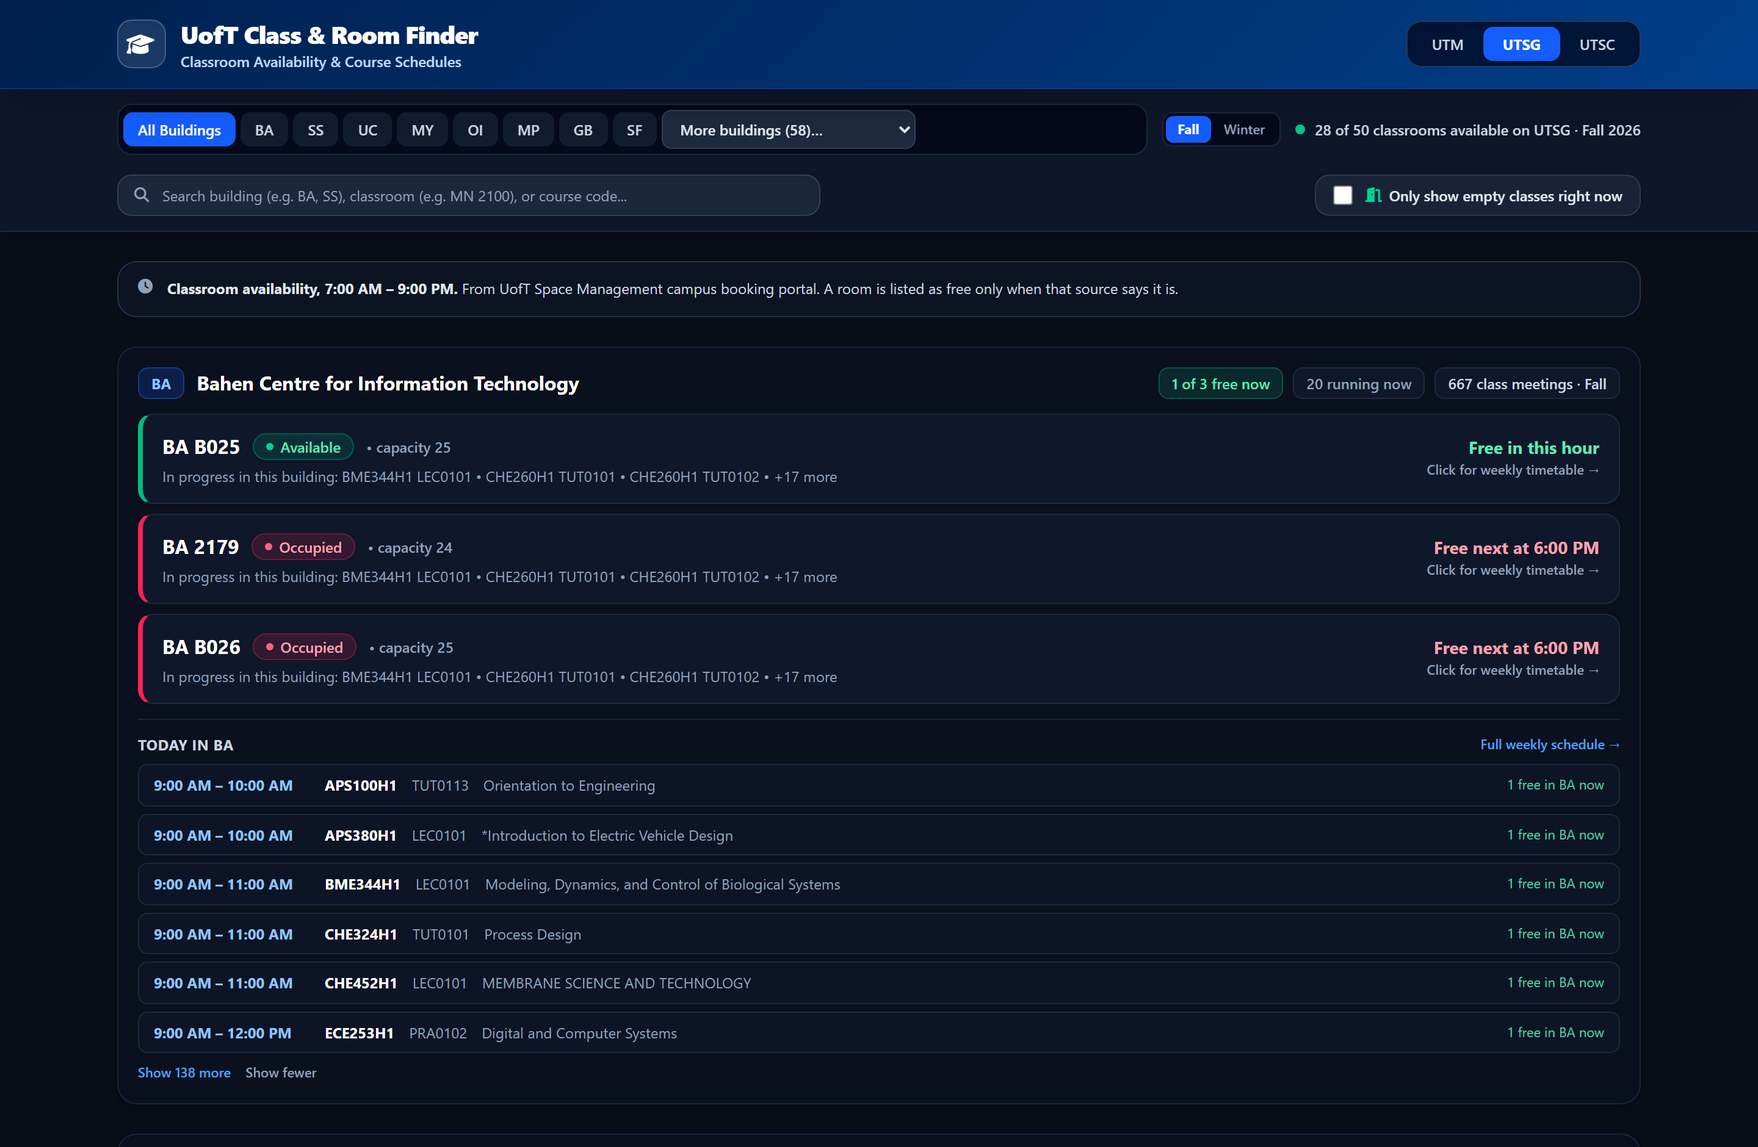
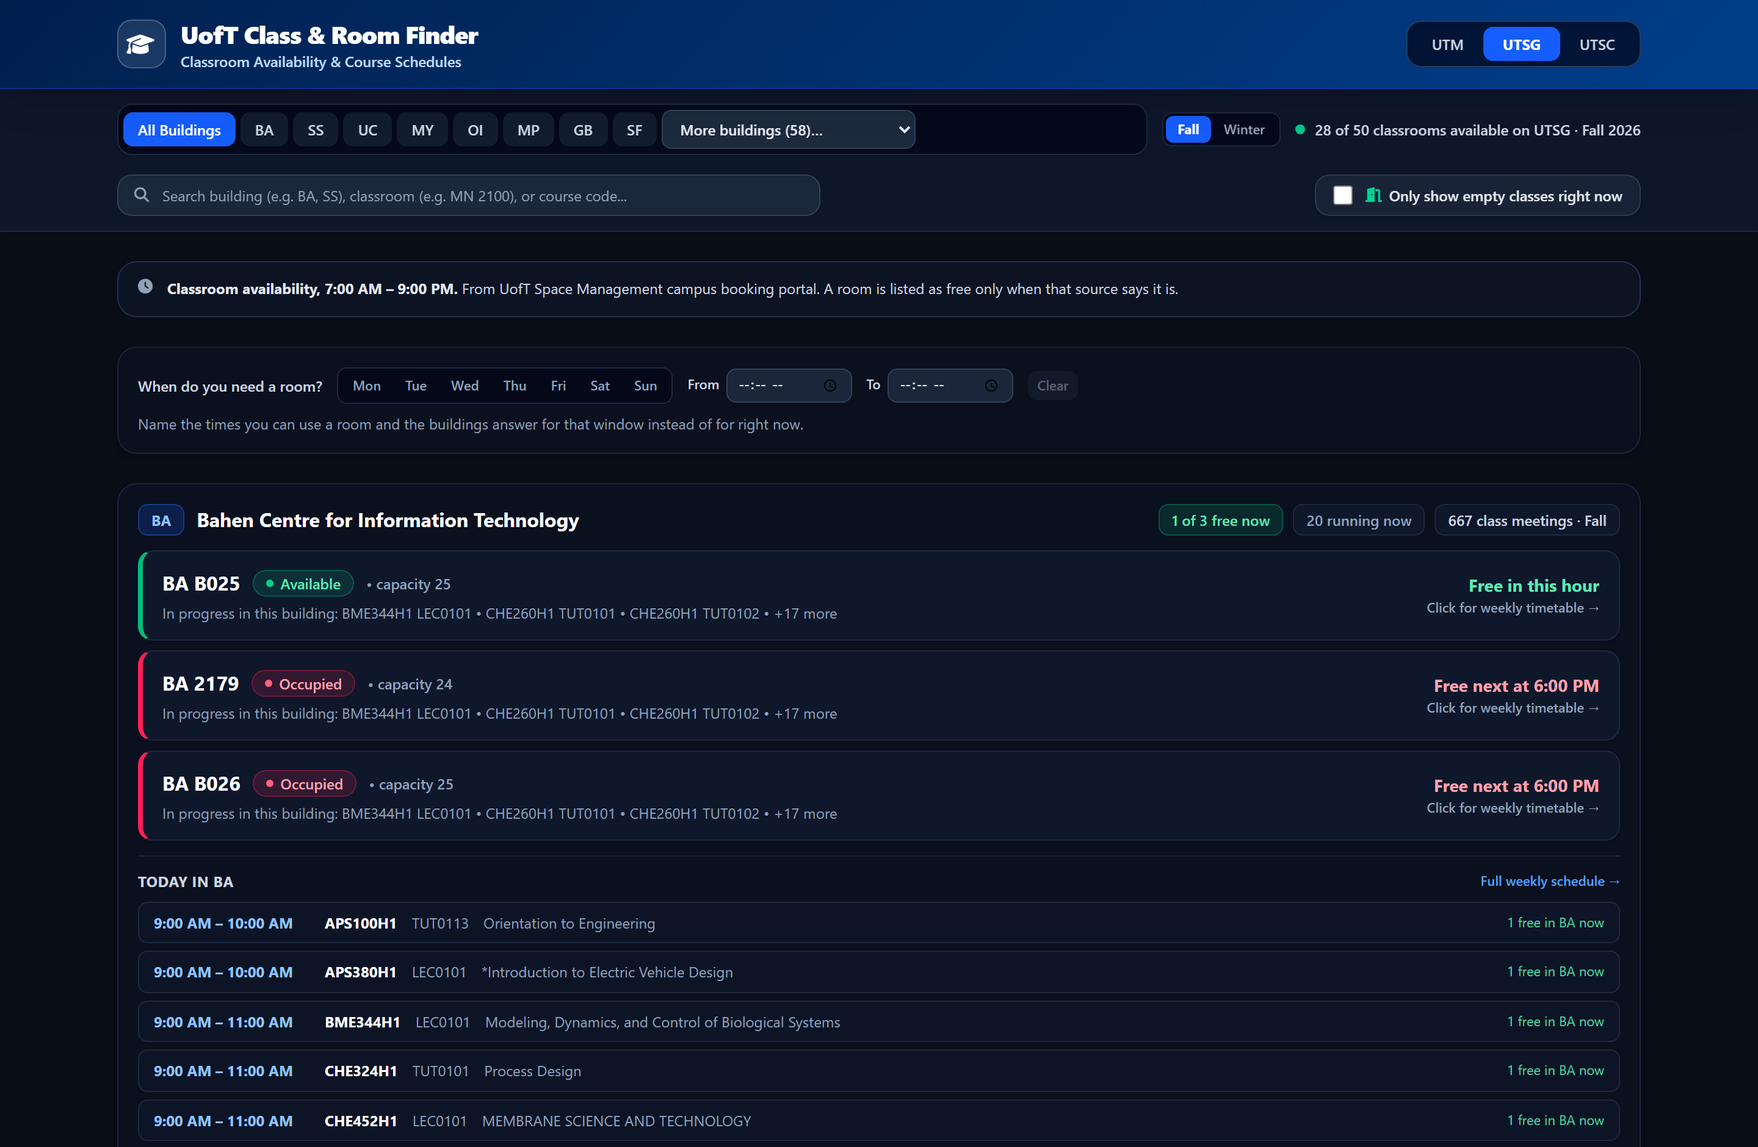
docs: the section finder, and the window

diff --git a/docs/superpowers/plans/2026-10-20-section-finder.md b/docs/superpowers/plans/2026-10-20-section-finder.md
@@ -56,7 +56,7 @@ Each line is an input the spec implies that a task's own tests must pin down.
   export function roomStateForWindow(room: Room, window: TimeWindow): RoomState;
   ```
 
-- [ ] **Step 1: Write the failing tests** in `tests/unit/window.test.ts`.
+- [x] **Step 1: Write the failing tests** in `tests/unit/window.test.ts`.
 
   Build meetings with a local helper `meeting(overrides)` (a `ClassMeeting` with `day: 2`, `start: "10:00"`, `end: "12:00"` as defaults) and rooms with a local helper `room(hours)` (a `Room` whose `occupancy` is `{ "2": { 10: false, 11: false } }` by default).
 
@@ -75,12 +75,12 @@ Each line is an input the spec implies that a task's own tests must pin down.
   - With days `[2, 3]` picked, a room free on day 2 and busy on day 3 is **busy**.
   - With **no** day picked, a room free on one published day and busy on another is **free** — any published day will do.
 
-- [ ] **Step 2: Run the test to verify it fails**
+- [x] **Step 2: Run the test to verify it fails**
 
   Run: `npx vitest run tests/unit/window.test.ts`
   Expected: FAIL — `Failed to resolve import "./lib/window"`.
 
-- [ ] **Step 3: Implement `src/components/lib/window.ts`**
+- [x] **Step 3: Implement `src/components/lib/window.ts`**
 
   The hour range a window touches: `startHour = Math.floor(startMins / 60)`, `endHour = Math.ceil(endMins / 60) - 1`, inclusive. A window with no hours bound touches every hour of the day. A window whose start is after its end has no hour bound and touches every hour.
 
@@ -100,12 +100,12 @@ Each line is an input the spec implies that a task's own tests must pin down.
     verdict is `"free"` if any published day is free, `"busy"` if any is
     busy, `"unknown"` otherwise.
 
-- [ ] **Step 4: Run the test to verify it passes**
+- [x] **Step 4: Run the test to verify it passes**
 
   Run: `npx vitest run tests/unit/window.test.ts`
   Expected: PASS.
 
-- [ ] **Step 5: Commit**
+- [x] **Step 5: Commit**
 
   ```bash
   git add src/components/lib/window.ts tests/unit/window.test.ts
@@ -152,7 +152,7 @@ Each line is an input the spec implies that a task's own tests must pin down.
   export function sortSectionsByFit(sections: CourseSection[], window: TimeWindow): CourseSection[];
   ```
 
-- [ ] **Step 1: Write the failing tests** in `tests/unit/sections.test.ts`.
+- [x] **Step 1: Write the failing tests** in `tests/unit/sections.test.ts`.
 
   - `groupCourseSections` groups by `(sectionName, sessionCode)`: two meetings of `LEC0101` in session `20269` make one section with two meetings; the same `LEC0101` in session `20271` makes a **second** section.
   - A section's `days` are sorted and unique; its `buildings` are sorted and unique; its `instructor` is the first instructor of its meetings, or `null` when it has none.
@@ -162,12 +162,12 @@ Each line is an input the spec implies that a task's own tests must pin down.
   - The `reason` for a meeting that is not picked mentions the day it is on; the reason for one that starts too early names the start time.
   - `sortSectionsByFit` puts the fitting sections first, then the partial ones, then the rest; within a group, by the earliest meeting (day, then start time), then by section name.
 
-- [ ] **Step 2: Run the test to verify it fails**
+- [x] **Step 2: Run the test to verify it fails**
 
   Run: `npx vitest run tests/unit/sections.test.ts`
   Expected: FAIL — `Failed to resolve import "./lib/sections"`.
 
-- [ ] **Step 3: Implement `src/components/lib/sections.ts`**
+- [x] **Step 3: Implement `src/components/lib/sections.ts`**
 
   `groupCourseSections` walks the meetings once, keyed by `` `${meeting.sessionCode}:${meeting.sectionName}` ``, and builds each section from its first meeting plus the collected days, buildings and instructors.
 
@@ -175,12 +175,12 @@ Each line is an input the spec implies that a task's own tests must pin down.
 
   `sortSectionsByFit` sorts by fit rank (`fits` 0, `partial` 1, `none` 2), then by the earliest meeting's day, then its start time, then the section name.
 
-- [ ] **Step 4: Run the test to verify it passes**
+- [x] **Step 4: Run the test to verify it passes**
 
   Run: `npx vitest run tests/unit/sections.test.ts`
   Expected: PASS.
 
-- [ ] **Step 5: Commit**
+- [x] **Step 5: Commit**
 
   ```bash
   git add src/components/lib/sections.ts tests/unit/sections.test.ts
@@ -208,7 +208,7 @@ Each line is an input the spec implies that a task's own tests must pin down.
   export default function WindowControl(props: WindowControlProps): JSX.Element;
   ```
 
-- [ ] **Step 1: Write the failing tests** in `tests/unit/WindowControl.test.tsx`.
+- [x] **Step 1: Write the failing tests** in `tests/unit/WindowControl.test.tsx`.
 
   - It renders a button for each day, Monday to Sunday, named `Mon` … `Sun`.
   - Clicking `Tue` calls `onChange` with `{ ...window, days: [2] }`.
@@ -217,21 +217,21 @@ Each line is an input the spec implies that a task's own tests must pin down.
   - Typing `08:00` into "To" calls `onChange` with `endMins: 480`.
   - A "Clear" button calls `onChange` with `EMPTY_WINDOW`.
 
-- [ ] **Step 2: Run the test to verify it fails**
+- [x] **Step 2: Run the test to verify it fails**
 
   Run: `npx vitest run tests/unit/WindowControl.test.tsx`
   Expected: FAIL — the module does not exist.
 
-- [ ] **Step 3: Implement `src/components/WindowControl.tsx`**
+- [x] **Step 3: Implement `src/components/WindowControl.tsx`**
 
   Seven day buttons, two `<input type="time">` fields, and a Clear button. The day buttons carry `aria-pressed` and the same button styles the campus tabs use (`bg-blue-600 text-white` when on, `bg-slate-800 text-slate-300` when off). The time inputs carry the same classes the search input uses. The "To" input's `min` is the "From" input's value, so the browser refuses an end before the start.
 
-- [ ] **Step 4: Run the test to verify it passes**
+- [x] **Step 4: Run the test to verify it passes**
 
   Run: `npx vitest run tests/unit/WindowControl.test.tsx`
   Expected: PASS.
 
-- [ ] **Step 5: Commit**
+- [x] **Step 5: Commit**
 
   ```bash
   git add src/components/WindowControl.tsx tests/unit/WindowControl.test.tsx
@@ -278,7 +278,7 @@ Each line is an input the spec implies that a task's own tests must pin down.
   like the building list: it shows the sections of the active term, and the
   heading says which term and how many.
 
-- [ ] **Step 1: Write the failing E2E test** in `tests/e2e/app.spec.ts`.
+- [x] **Step 1: Write the failing E2E test** in `tests/e2e/app.spec.ts`.
 
   ```ts
   test("finds another section of a course that fits the window", async ({ page }) => {
@@ -301,12 +301,12 @@ Each line is an input the spec implies that a task's own tests must pin down.
 
   The exact heading and the fit wording are fixed in Task 4's Step 3.
 
-- [ ] **Step 2: Run the test to verify it fails**
+- [x] **Step 2: Run the test to verify it fails**
 
   Run: `npx playwright test --grep "another section"`
   Expected: FAIL — the heading is not there.
 
-- [ ] **Step 3: Implement `src/components/SectionFinder.tsx` and the routes**
+- [x] **Step 3: Implement `src/components/SectionFinder.tsx` and the routes**
 
   The view, in the order top to bottom:
 
@@ -335,17 +335,17 @@ Each line is an input the spec implies that a task's own tests must pin down.
   `mode === "section"` — the latter renders the existing `WeeklySchedule`
   with only that section's meetings.
 
-- [ ] **Step 4: Run the test to verify it passes**
+- [x] **Step 4: Run the test to verify it passes**
 
   Run: `npx playwright test --grep "another section"`
   Expected: PASS.
 
-- [ ] **Step 5: Run the whole suite**
+- [x] **Step 5: Run the whole suite**
 
   Run: `npm run lint && npx vitest run && npx playwright test`
   Expected: all green.
 
-- [ ] **Step 6: Commit**
+- [x] **Step 6: Commit**
 
   ```bash
   git add src/components/SectionFinder.tsx src/components/ClassFinder.tsx tests/e2e/app.spec.ts
@@ -364,7 +364,7 @@ Each line is an input the spec implies that a task's own tests must pin down.
 - Consumes: `TimeWindow`, `EMPTY_WINDOW`, `windowIsEmpty`, `classesInWindow`, `roomStateForWindow` from `@/components/lib/window`; `WindowControl` from `@/components/WindowControl`.
 - Produces: no new exported names. `ClassFinder` gains the state `const [window, setWindow] = useState<TimeWindow>(EMPTY_WINDOW)` and passes it down.
 
-- [ ] **Step 1: Write the failing E2E test** in `tests/e2e/app.spec.ts`.
+- [x] **Step 1: Write the failing E2E test** in `tests/e2e/app.spec.ts`.
 
   ```ts
   test("a building answers for the window you need", async ({ page }) => {
@@ -386,12 +386,12 @@ Each line is an input the spec implies that a task's own tests must pin down.
   });
   ```
 
-- [ ] **Step 2: Run the test to verify it fails**
+- [x] **Step 2: Run the test to verify it fails**
 
   Run: `npx playwright test --grep "window you need"`
   Expected: FAIL — the control and the window copy are not there.
 
-- [ ] **Step 3: Implement the window in the list view**
+- [x] **Step 3: Implement the window in the list view**
 
   In `ClassFinder.tsx`:
 
@@ -413,17 +413,17 @@ Each line is an input the spec implies that a task's own tests must pin down.
   - With no days picked, a room free in the window on some published day
     reads `Free in your window on some day`, because that is what it means.
 
-- [ ] **Step 4: Run the test to verify it passes**
+- [x] **Step 4: Run the test to verify it passes**
 
   Run: `npx playwright test --grep "window you need"`
   Expected: PASS.
 
-- [ ] **Step 5: Run the whole suite**
+- [x] **Step 5: Run the whole suite**
 
   Run: `npm run lint && npx vitest run && npx playwright test`
   Expected: all green.
 
-- [ ] **Step 6: Commit**
+- [x] **Step 6: Commit**
 
   ```bash
   git add src/components/ClassFinder.tsx tests/e2e/app.spec.ts
@@ -442,12 +442,12 @@ Each line is an input the spec implies that a task's own tests must pin down.
 - Consumes: nothing.
 - Produces: nothing.
 
-- [ ] **Step 1: Update the counts**
+- [x] **Step 1: Update the counts**
 
   The test counts in `README.md`, `docs/REPORT.md` and `docs/ARCHITECTURE.md`
   must match what the suite reports. Count them from the run, do not guess.
 
-- [ ] **Step 2: Write the entries**
+- [x] **Step 2: Write the entries**
 
   `CHANGELOG.md` — an "Application" entry for the section finder and one for
   the building's window.
@@ -460,14 +460,14 @@ Each line is an input the spec implies that a task's own tests must pin down.
 
   `docs/ARCHITECTURE.md` — the data layout table gains the two new modules.
 
-- [ ] **Step 3: Re-capture the screenshots**
+- [x] **Step 3: Re-capture the screenshots**
 
   Run: `npm run build && npx next start -p 3000` (in the background), then
   `npm run screenshots`.
   Expected: `captured classroom-list`, `captured course-timetable`,
   `captured classroom-timetable`, `captured st-george`.
 
-- [ ] **Step 4: Verify and commit**
+- [x] **Step 4: Verify and commit**
 
   Run: `npm run lint && npm run scraper:test && npx vitest run && npx playwright test && npm run data:verify && npm run data:size`
   Expected: all green, and the payload budget unchanged.

diff --git a/README.md b/README.md
@@ -9,7 +9,7 @@ room number that the University has not published.**
 [![React](https://img.shields.io/badge/React-19-087ea4?logo=react&logoColor=087ea4)](https://react.dev)
 [![Tailwind](https://img.shields.io/badge/Tailwind-4-38bdf8?logo=tailwindcss)](https://tailwindcss.com)
 [![Python](https://img.shields.io/badge/Python-3.10--3.13-3776ab?logo=python)](https://python.org)
-[![Tests](https://img.shields.io/badge/tests-122%20passing-brightgreen)](#testing)
+[![Tests](https://img.shields.io/badge/tests-167%20passing-brightgreen)](#testing)
 [![License](https://img.shields.io/badge/license-MIT-blue)](LICENSE)
 
 </div>
@@ -36,6 +36,11 @@ how many classes are running in each building right now.
 
 ![St. George](docs/images/st-george.png)
 
+**Find another section** — every way of taking a course, with the ones that
+fit the times you named first.
+
+![Find another section](docs/images/section-finder.png)
+
 ---
 
 ## Reading further
@@ -61,6 +66,12 @@ how many classes are running in each building right now.
 - **How busy every building is right now**, on every campus, with the
   emptiest buildings first: the closest published thing to "is there space
   here" where the University publishes no room occupancy.
+- **Find another section** of a course. The University publishes every
+  section of every course: MAT223H1 has seventy-six of them. Name the days
+  and hours you can attend and the ones that fit come first, and a section
+  that only partly fits says which of its meetings clashes.
+- **A room for the times you need.** Name the days and the hours and the
+  buildings answer for that window instead of for right now.
 - **Search** by course code, building or classroom.
 - **Weekly timetables** for a course, a building or a single classroom.
 - A **Fall / Winter** switch, so you can see one term or the whole year.
@@ -74,7 +85,7 @@ how many classes are running in each building right now.
 | Classrooms | 65 UTM and 50 St. George classrooms with published per-hour occupancy, plus 334 St. George and 71 Scarborough classrooms with their capacities |
 | Invented values | **0** |
 | First load | **83 KB** (was 8.3 MB) |
-| Tests | 122 across three layers, plus 4 automated accessibility checks |
+| Tests | 167 across three layers, plus 4 automated accessibility checks |
 
 ## The part that matters: it does not make things up
 
@@ -228,8 +239,8 @@ scraper/
     cli.py                  # `build` and `verify`
   tests/                    # 47 pytest tests + committed API fixtures
 tests/
-  unit/                     # 53 Vitest tests
-  e2e/                      # 22 Playwright tests
+  unit/                     # 96 Vitest tests
+  e2e/                      # 24 Playwright tests
 data/
   campus/<KEY>.json         # the dataset, one file per campus key
   rooms/<KEY>.json          # the classrooms with their occupancy, and where
@@ -256,7 +267,7 @@ crosses 150 KB, so the win cannot quietly be given back.
 **Everything that can be a pure function is one.** Time handling, term
 filtering, search, room-availability states and the timetable layout all live
 in `src/components/lib/schedule.ts`, which touches no browser API. That is
-why 53 of the 122 tests are fast and deterministic.
+why 96 of the 167 tests are fast and deterministic.
 
 **The data is verified, not trusted.** `npm run data:verify` re-checks the
 committed dataset's invariants - that the per-campus files add up to the
@@ -267,8 +278,8 @@ publish, that there are no duplicates. It runs in CI.
 
 ```bash
 npm run scraper:test   # 47 pytest  - saved API fixtures, no network
-npm test               # 53 Vitest  - pure logic + React components
-npm run test:e2e       # 22 Playwright - against the production build
+npm test               # 96 Vitest  - pure logic + React components
+npm run test:e2e       # 24 Playwright - against the production build
 npm run data:verify    # the committed dataset's invariants
 npm run data:size      # the gzipped payload budget
 ```

diff --git a/docs/REPORT.md b/docs/REPORT.md
@@ -39,7 +39,7 @@ the one it replaced, and that makes a claim a reviewer can check.
 | Classrooms | 65 UTM and 50 St. George classrooms with published per-hour occupancy, plus 334 St. George and 71 Scarborough classrooms with their capacities |
 | Invented values | **0** |
 | First load | **83 KB** (was 8.3 MB) |
-| Tests | 122 across three layers, plus 4 automated accessibility checks |
+| Tests | 167 across three layers, plus 4 automated accessibility checks |
 
 ---
 
@@ -344,6 +344,9 @@ Result: **21,238 of 21,408** meetings carry a real building name.
 | The snapshot does not carry an hour | Shows **unknown**, never "free" |
 | A block on the weekly grid | Starts on the hour line it names, and the now-line sits where the clock says it is |
 | A room is booked for several hours | Says **when it is free again**, not when the hour ends: "Free next at 4:00 PM", never "Booked until 11:00 AM" |
+| A room has no known free hour left in the day | Says so, instead of a time that never comes |
+| A section does not fit the window | Says which of its meetings does not fit, and why |
+| A class hangs over the end of the window | Does not fit: containment, not overlap |
 | A room has no free hour left in the day | Says so, instead of a time that never comes |
 | The current hour is outside the published band | One banner says so, once, instead of 65 cards reading "unknown" |
 | A building has no published name | Shows the code, not a guess |
@@ -377,11 +380,11 @@ specific.
 | Layer | Tests | Protects | Network |
 |---|---:|---|---|
 | **pytest** | 47 | The data contract: pagination completeness, the code and session rules, cancelled sections, the Metis weekday, the missing hour, the rooms-only rebuild, the per-campus split, the filter funnel | none — fixtures are committed |
-| **Vitest** | 53 | The application: time handling, term filtering, search, room states, the timetable layout, and the components — including "no invented room numbers" | none |
-| **Playwright** | 22 | The shipped product: campus tabs, search, the weekly timetable, the classroom view, the St. George and Scarborough classroom inventories, the St. George availability, the order the rooms are in, the API payload, keyboard operation | none — a production build, served locally |
+| **Vitest** | 96 | The application: time handling, term filtering, search, room states, the timetable layout, the time window, the sections of a course, and the components — including "no invented room numbers" | none |
+| **Playwright** | 24 | The shipped product: campus tabs, search, the weekly timetable, the classroom view, the St. George and Scarborough classroom inventories, the St. George availability, the order the rooms are in, the section finder, the window, the API payload, keyboard operation | none — a production build, served locally |
 | **axe-core** | 4 views | WCAG 2.1 AA violations in the classroom list, a course timetable, a classroom timetable and St. George | none |
 
-**122 tests, none of which touches the University of Toronto's servers.** CI
+**167 tests, none of which touches the University of Toronto's servers.** CI
 runs them in four jobs; the data-verification and payload-budget jobs need
 no network either.
 
@@ -445,7 +448,7 @@ npm run data:verify     # the dataset's invariants
 npm run data:size       # the payload budget
 npm run scraper:test    # 47 tests, offline
 npm test                # 53 tests, offline
-npm run test:e2e        # 22 tests, against a local production build
+npm run test:e2e        # 24 tests, against a local production build
 ```
 
 `data:verify` re-reads the per-campus files, unions them, and checks that

diff --git a/docs/ARCHITECTURE.md b/docs/ARCHITECTURE.md
@@ -58,6 +58,8 @@ How the project is put together, and why each piece is where it is.
         │                                                           │
         │   app/api/schedule/[campus]/route.ts   one payload, gzip  │
         │   components/ClassFinder.tsx            state + routing   │
+        │   components/SectionFinder.tsx          every section      │
+        │   components/WindowControl.tsx           days + hours       │
         │   components/WeeklySchedule.tsx         the weekly grid   │
         │   components/lib/schedule.ts            pure logic        │
         └───────────────────────────────────────────────────────────┘
@@ -184,11 +186,11 @@ the source it was given rather than a name it invented.
 
 ```
                  ┌───────────────────────────┐
-                 │  Playwright · 22 tests    │  the shipped product
+                 │  Playwright · 24 tests    │  the shipped product
                  │  + axe-core · 4 views     │
                  └───────────────────────────┘
                  ┌───────────────────────────┐
-                 │  Vitest · 53 tests        │  logic and components
+                 │  Vitest · 96 tests        │  logic and components
                  └───────────────────────────┘
                  ┌───────────────────────────┐
                  │  pytest · 47 tests        │  the data contract

diff --git a/CHANGELOG.md b/CHANGELOG.md
@@ -92,7 +92,17 @@ adheres to [Semantic Versioning](https://semver.org/spec/v2.0.0.html).
 
 ### Engineering
 
-- 122 tests across three layers: 47 pytest, 53 Vitest, 22 Playwright.
+- **Find another section.** The University publishes every section of every
+  course - MAT223H1 has seventy-six of them - and the app now shows them.
+  Name the days and the hours you can attend and the sections that fit come
+  first; a section that meets on two days with different times is scored per
+  meeting, and says which of them clashes.
+- **A room for the times you need.** One window control answers both
+  questions: which section of a course can I take, and which room is free.
+  Name the days and the hours and the buildings answer for that window
+  instead of for right now - the room cards, the counts and the class list
+  all follow it. With no window, everything keeps its current meaning.
+- 167 tests across three layers: 47 pytest, 96 Vitest, 24 Playwright.
 
 ## [0.3.0] — 2026-10-20
 
